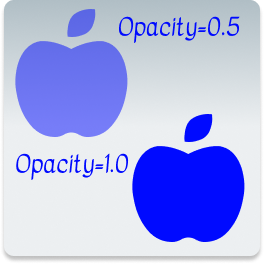
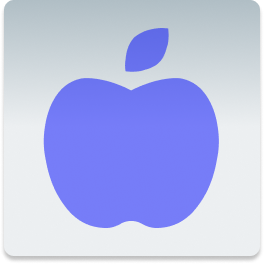
Update README

diff --git a/README.md b/README.md
@@ -7,6 +7,8 @@
 [![build](https://github.com/ankitmishradev/advanced-icon/actions/workflows/main.yml/badge.svg)](https://github.com/ankitmishradev/advanced-icon/actions/workflows/main.yml)
 [![License](https://img.shields.io/github/license/ankitmishradev/advanced-icon)](https://opensource.org/licenses/MIT)
 
+---
+
 ## Installing
 
 Add this package to your flutter project's `pubspec.yaml` file:
@@ -23,6 +25,8 @@ Now in your `Dart` code, you can use:
 import 'package:advanced_icon/advanced_icon.dart';
 ```
 
+---
+
 ## Features at a Glance
 
 - Icons can be painted with gradient in addition to color.
@@ -31,18 +35,20 @@ import 'package:advanced_icon/advanced_icon.dart';
 - A lot of cool animation effects are availble to animate between icon and secondary icon.
 - No need to manage animation controller and animations manually.
 
+---
+
 ## Decoration
 
-### Gradient:
+### Gradient
 
-<img src='https://github.com/ankitmishradev/advanced-icon/blob/main/display/gradient_demo.png?raw=true' align = "right" height = "256px">
-Add gradient to your icons and make them look more appealing by specifying gradient in gradient property of the widget as follows:
+<img src='https://github.com/ankitmishradev/advanced-icon/blob/main/display/gradient_demo.png?raw=true' align = "right" height = "200px" width="200px">
+Add gradient to your icons and make them look more appealing by specifying a gradient in the gradient property of the widget as follows:
 
 ```dart
 AdvancedIcon(
-  icon:Icons.home,
+  icon:Icons.favorite,
   gradient:const LinearGradient(
-    colors: <Color>[Color(0xFFFF0000), Color(0xFFF008CB)],
+    colors: <Color>[Colors.red, Colors.pink],
     begin: Alignment.topLeft,
     end: Alignment.bottomRight,
     step: [0.2,0.8],
@@ -50,24 +56,38 @@ AdvancedIcon(
 )
 ```
 
-### Opacity:
+### Opacity
 
-<img src='https://github.com/ankitmishradev/advanced-icon/blob/main/display/opacity_demo.png?raw=true' align = "right" height = "256px">
-Make your icons opaque just by setting the opacity property of the widget. Opacity must be between 0 and 1(including 0 and 1). See an example below:
+<img src='https://github.com/ankitmishradev/advanced-icon/blob/main/display/opacity_demo.png?raw=true' align = "right" height = "200px" width="200px">
+Make your icons opaque just by setting the opacity property of the widget. Opacity must be between 0 and 1 including 0 and 1. See an example below which better illustrate opacity property of this widget:
 
 ```dart
 AdvancedIcon(
-  icon:Icons.home,
-  color: Color(0xFF000AFF),
+  icon:Icons.apple,
+  color: Colors.blue,
   opacity:0.5,
 )
 ```
 
-## State Management
+---
 
-### AdvancedIconState
+## Change Icon With Animation
 
-This property holds the information about the current state of the widget and notify the widget to show `icon` for the `AdvancedIconState.primary` and `secondaryIcon` for `AdvancedIconState.secondary`. `AdvancedIconState` can be changed using any of the following methods:
+To animate between two icons `secondaryIcon` must not be null and whenever it is not null the widget will look up to `state` and will render only one icon accordingly. To animate the icon from `icon` to `secondaryIcon` or vice versa let's first manage the state of the widget:
+
+### 1. Manage state
+
+This property holds the information about the current state of the widget. This widget can have any one of the following states:
+
+1. `AdvancedIconState.primary`
+2. `AdvancedIconState.secondary`
+
+Whenever the state changes, it notifies the widget about the changes and then widget changes the current icon displayed on the screen following the below rules:
+
+1. `icon` will render for `AdvancedIconState.primary`.
+2. `secondaryIcon` will render for `AdvancedIconState.secondary`.
+
+`AdvancedIconState` can be changed using any of the following methods:
 
 - setState
 - provider
